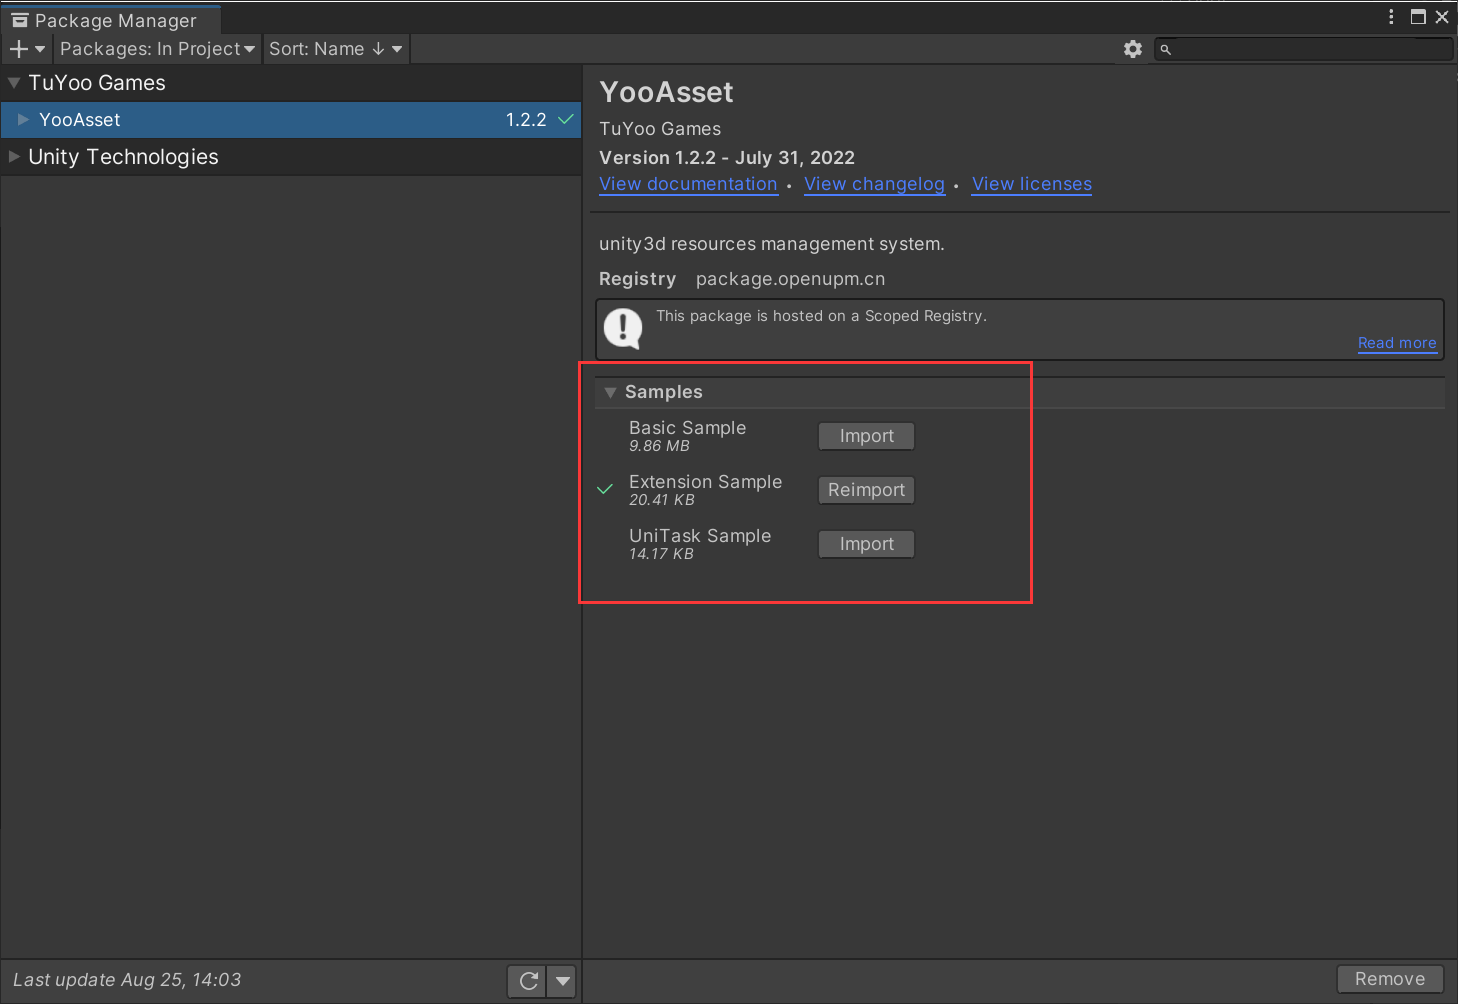
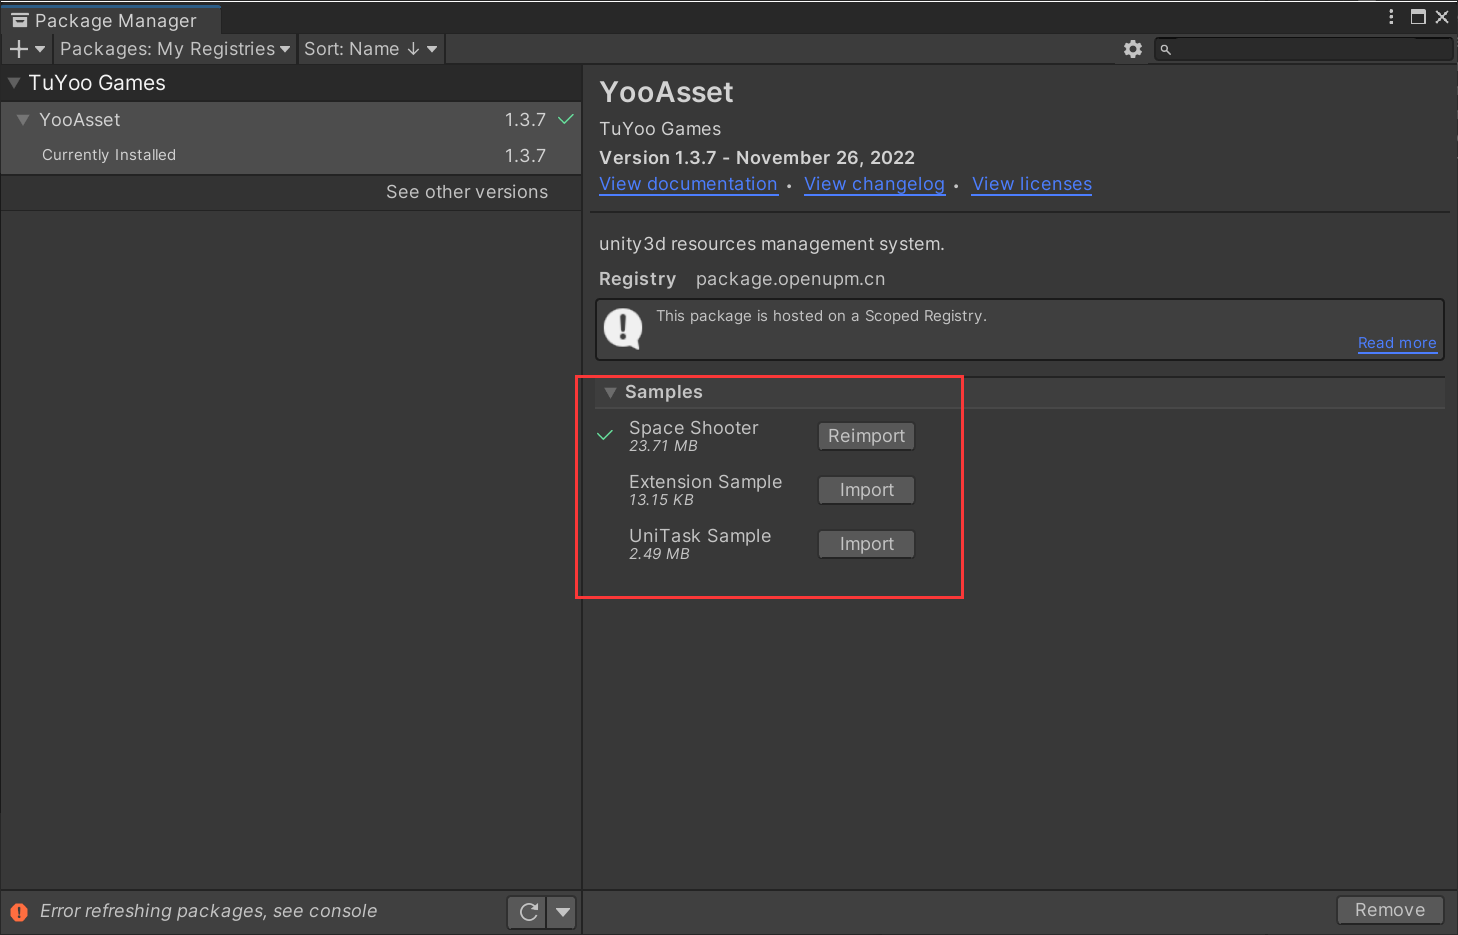
update document

diff --git a/Docs/Samples.md b/Docs/Samples.md
@@ -4,7 +4,7 @@
 
 #### 示例内容
 
-**Basic Sample** 包含资源热更和加载的示例。
+**Space Shooter** 太空战机DEMO，包含资源热更和加载的示例。
 
 **Extension Sample** 包含编辑器扩展代码的示例。 
 
@@ -14,6 +14,6 @@
 
 ![image](./Image/Samples-img2.png)
 
-1. Basic Sample在导入完成后，打开YooAsset->AssetBundle Collector窗口。
+1. Space Shooter在导入完成后，打开YooAsset->AssetBundle Collector窗口。
 1. 点击修复按钮，然后点击Save按钮保存配置，最后关闭窗口。
 3. 找到Boot.scene场景启动游戏。
